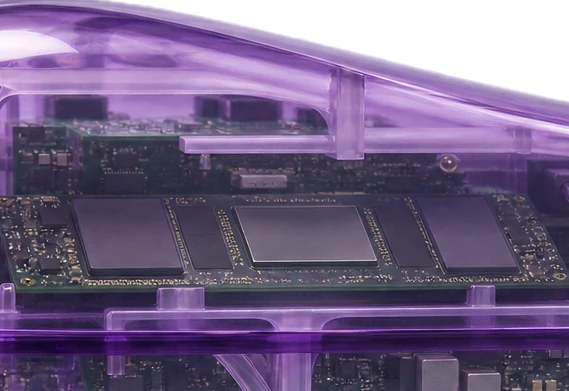
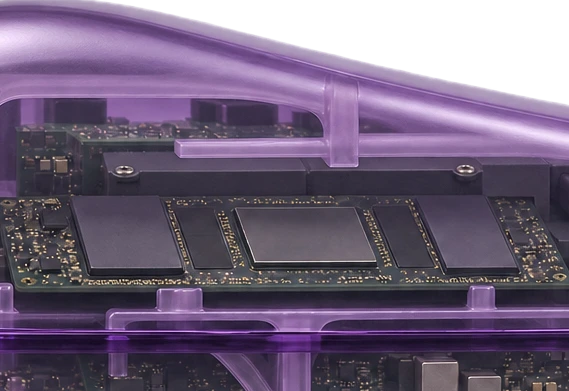
feat: refine the Kiln hardware for studio operations

diff --git a/src/styles/monument.css b/src/styles/monument.css
@@ -4,7 +4,7 @@
 @font-face{font-family:Monument;src:url('/assets/fonts/ABCMonumentGrotesk-Medium.woff2') format('woff2');font-weight:500;font-display:swap}
 @font-face{font-family:Monument;src:url('/assets/fonts/ABCMonumentGrotesk-Bold.woff2') format('woff2');font-weight:700;font-display:swap}
 @font-face{font-family:PlexMono;src:url('/assets/IBMPlexMono-Regular.ttf') format('truetype');font-display:swap}
-:root{--paper:#f6f1f7;--ink:#1a1221;--yellow:#e2c9f4;--red:#edc1df;--blue:#a985ed;--pad:clamp(24px,5vw,88px);--rule:rgba(26,18,33,.25);--heavy:clamp(6px,.85vw,14px);--tracking-display:-.025em;--tracking-heading:-.02em;--sans:Monument,Arial,sans-serif;--mono:PlexMono,monospace}
+:root{--paper:#f2f1f4;--ink:#1a1221;--yellow:#d8cfe3;--red:#debed1;--blue:#aa95ce;--pad:clamp(24px,5vw,88px);--rule:rgba(26,18,33,.25);--heavy:clamp(6px,.85vw,14px);--tracking-display:-.025em;--tracking-heading:-.02em;--sans:Monument,Arial,sans-serif;--mono:PlexMono,monospace}
 *{box-sizing:border-box}html{scroll-behavior:smooth;scroll-padding-top:96px}body{margin:0;font:400 18px/1.5 var(--sans);background:var(--paper);color:var(--ink);font-synthesis:none;font-kerning:normal;letter-spacing:normal;word-spacing:normal;-webkit-font-smoothing:antialiased}h1,h2,h3,p,figure{margin:0}h1,h2,h3{font-weight:500;line-height:1.08;letter-spacing:var(--tracking-heading)}h2{font-size:clamp(44px,5.2vw,84px)}h3{font-size:28px}img{display:block;max-width:100%}a{color:inherit;text-decoration:none}button,input,select,textarea{font:inherit;color:inherit}button,a,input,select,textarea{touch-action:manipulation}button{cursor:pointer;border:0;background:none}button:focus-visible,a:focus-visible,summary:focus-visible{outline:3px solid currentColor;outline-offset:5px}input:focus-visible,select:focus-visible,textarea:focus-visible{outline:3px solid var(--blue);outline-offset:3px}button[hidden],[hidden]{display:none!important}::selection{background:var(--ink);color:var(--yellow)}.sr-only{position:absolute;width:1px;height:1px;padding:0;overflow:hidden;clip:rect(0,0,0,0);white-space:nowrap}.skip{position:fixed;top:-100px;left:24px;background:var(--ink);color:var(--paper);padding:12px;z-index:100}.skip:focus{top:12px}
 .site-header{height:86px;padding:0 var(--pad);display:flex;align-items:center;gap:36px;position:sticky;top:0;background:var(--paper);z-index:30;border-bottom:1px solid var(--rule)}.brand{width:104px;flex-shrink:0}.brand img{width:104px;height:auto}.site-nav{display:flex;gap:30px;margin-left:auto;font-size:14px;font-weight:500}.site-nav a{padding:12px 0}.site-nav a:hover{text-decoration:underline;text-underline-offset:6px}.header-cta{border:1.5px solid var(--ink);padding:10px 16px;font-size:14px;font-weight:500;min-height:44px}.header-cta:hover{background:var(--ink);color:var(--paper)}.menu-toggle{display:none}.mobile-menu{position:fixed;inset:70px 0 auto;background:var(--paper);padding:20px 24px 32px;z-index:29;border-bottom:2px solid var(--ink)}.mobile-menu a{display:block;font-size:28px;padding:12px 0;letter-spacing:var(--tracking-heading)}
 .section{padding:76px var(--pad)}.meta{font:400 10px/1.5 var(--mono);letter-spacing:.055em;text-transform:uppercase}.section-head{display:flex;justify-content:space-between;gap:28px;margin-bottom:46px}.section-head>.meta:last-child:not(:first-child){text-align:right}.fine{font:400 11px/1.6 var(--mono);max-width:60ch}.arrow{font-family:var(--sans);font-size:24px;font-weight:400;line-height:1}.square{display:inline-block;width:8px;height:8px;background:currentColor;transform:rotate(18deg);flex-shrink:0}.action{display:inline-flex;min-height:48px;align-items:center;justify-content:space-between;gap:32px;font-size:15px;font-weight:500;border:1.5px solid var(--ink);padding:12px 18px}.action.primary{background:var(--ink);color:var(--paper)}.action:hover .square{transform:rotate(28deg);transition:transform .2s}.text-link{display:inline-flex;min-height:44px;align-items:center;justify-content:space-between;gap:30px;border-bottom:1px solid currentColor;font-size:15px;font-weight:500;padding:7px 0}.action-row{display:flex;flex-wrap:wrap;gap:12px}.section-intro{display:grid;grid-template-columns:1.2fr 1fr;gap:10vw;align-items:end;margin-bottom:48px}.section-intro p{max-width:38ch;font-size:20px;line-height:1.45}.lead{font-size:clamp(24px,2.2vw,36px);line-height:1.3;letter-spacing:-.01em}

diff --git a/src/styles/booking.css b/src/styles/booking.css
@@ -1,4 +1,4 @@
-.booking-page { --background: #f6f1f7; --ink: #1a1221; --muted: #555650; --blue: #6f36bd; --red: #edc1df; --yellow: #dfc6f4; --line: #1a122133; --mono: PlexMono, monospace; }
+.booking-page { --background: #f2f1f4; --ink: #1a1221; --muted: #555650; --blue: #6f36bd; --red: #debed1; --yellow: #dfc6f4; --line: #1a122133; --mono: PlexMono, monospace; }
 .booking-page * { margin: 0; padding: 0; box-sizing: border-box; }
 .booking-page { scroll-behavior: smooth; scroll-padding-top: 28px; }
 .booking-page { background: var(--background); color: var(--ink); font: 16px/1.6 Arial, Helvetica, sans-serif; -webkit-font-smoothing: antialiased; }

diff --git a/src/components/Seo.jsx b/src/components/Seo.jsx
@@ -8,7 +8,7 @@ export default function Seo({ title, description, path, hero = false }) {
     <title>{title}</title>
     <meta name="description" content={description} />
     <meta name="robots" content="index, follow" />
-    <meta name="theme-color" content="#f6f1f7" />
+    <meta name="theme-color" content="#f2f1f4" />
     <meta name="viewport" content="width=device-width, initial-scale=1, viewport-fit=cover" />
     <link rel="canonical" href={url} />
     <link rel="icon" href="/assets/kiln/kiln-crucible-ink.svg" type="image/svg+xml" />

diff --git a/gatsby-config.js b/gatsby-config.js
@@ -11,7 +11,7 @@ module.exports = {
         name: `Kiln by Porto Labs`,
         short_name: `Kiln`,
         start_url: `/`,
-        background_color: `#f6f1f7`,
+        background_color: `#f2f1f4`,
         theme_color: `#6f36bd`,
         display: `standalone`,
         icon: `static/assets/kiln/kiln-crucible-ink.svg`,

diff --git a/docs/CONTENT-SOURCES.md b/docs/CONTENT-SOURCES.md
@@ -4,6 +4,8 @@ Richard requested a new Kiln body made from translucent violet and pink molded p
 
 The approved Kiln One exterior and original open three-quarter view are retained. A separate cutaway features in the scroll reveal. Kiln Atelier remains the public name. The larger units nest flush along curved seams. Their thicker satin pink and violet surfaces diffuse the internal silhouettes. The rack and full-width photograph show the selected four-unit stack. The Kiln One product page uses a separate overhead lid-off view. Stack loads, rear service clearance and airflow are design intentions requiring engineering validation.
 
+The industrial refinement retains the embryo silhouette. The closed One has flush fasteners, a small release and a recessed service panel at its tapered end. The stack gives each module a visible status indicator and routes its cables together. The page uses a cooler neutral background and quieter violet fields. Connector selection and servicing details are illustrative.
+
 The study uses lander main at c07674e for page copy, typography, reading order, navigation and motion. The local design uses the existing reveal to show the interior card. The tested site assets live in static/assets/amethyst on the entropy-acs/kiln-flush-lander branch.
 
 ## NVIDIA Inception membership, 23 November 2026
